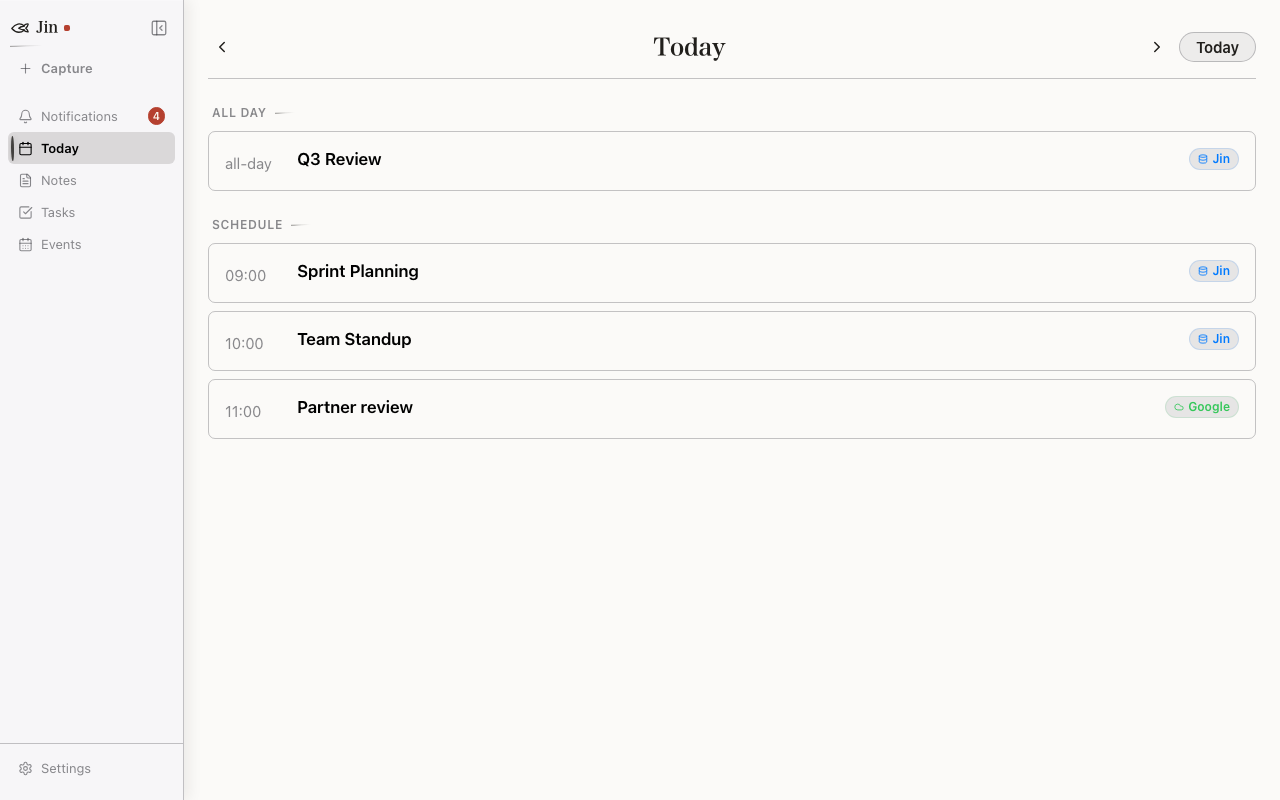
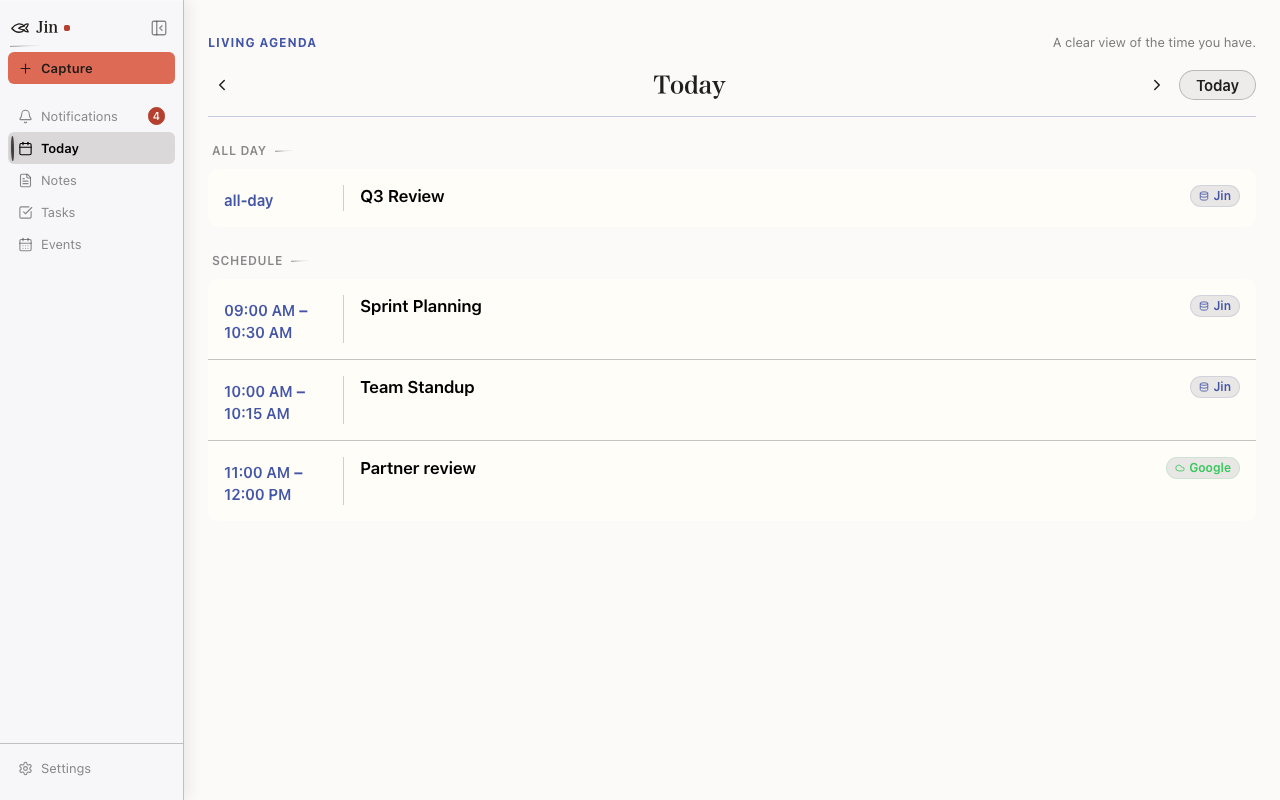
docs: refresh README with the current Living Agenda screen

diff --git a/README.md b/README.md
@@ -35,11 +35,11 @@ than drifting apart.
 
 ## Development preview
 
-![Jin Today view — deterministic browser fixture preview](docs/assets/jin-today-preview.png)
+![Jin Today view — light Living Agenda demo with Q3 Review, Sprint Planning, Team Standup, and Partner review](docs/assets/jin-today-preview.png)
 
-This is a deterministic browser-fixture screenshot of the built frontend. It is
-useful for showing the interface, but it is not proof of native Tauri behavior
-or cross-platform visual sign-off.
+This screenshot shows the current paper-and-ink Today interface using Jin's
+deterministic Living Agenda demo data. It is useful for showing the interface,
+but it is not proof of native Tauri behavior or cross-platform visual sign-off.
 
 ## The workflow
 
